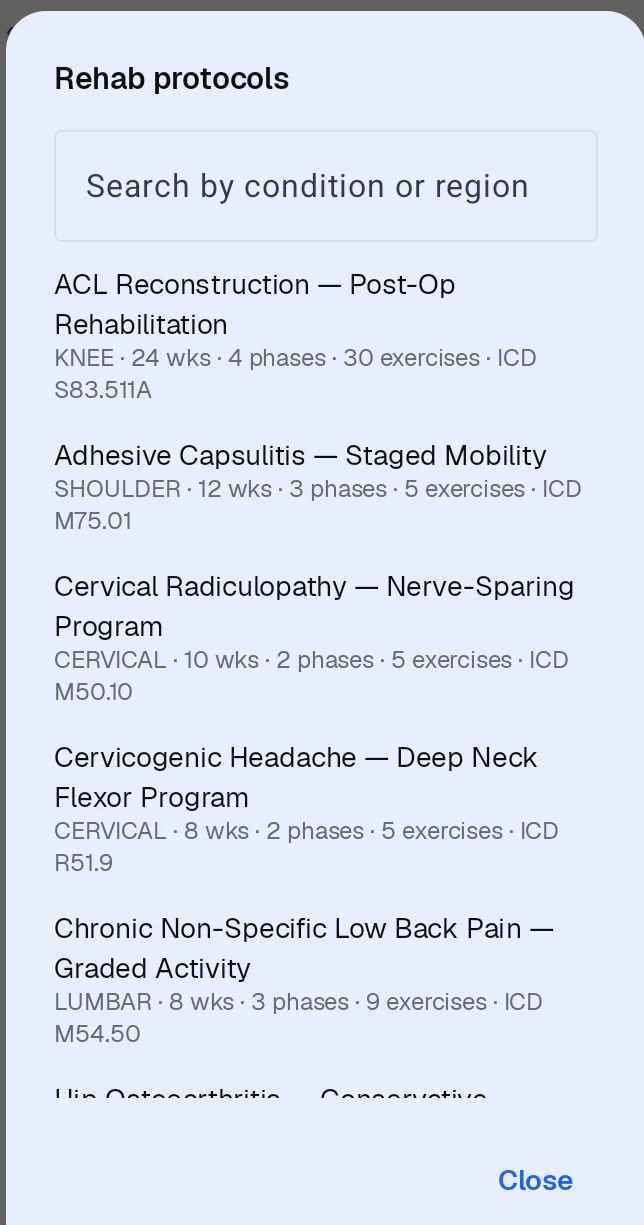
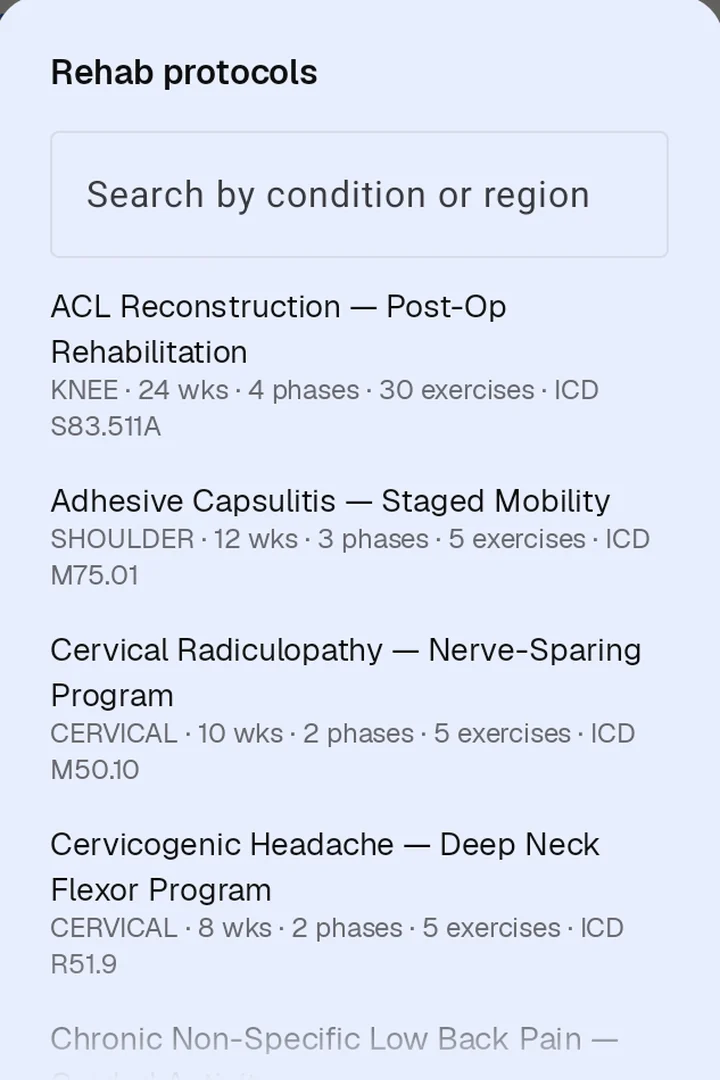
Make app screenshots uniform size and alignment

diff --git a/index.html b/index.html
@@ -504,9 +504,8 @@ tr:last-child th,tr:last-child td{border-bottom:0}
 /* ---------- App screenshots & Sameeksha demo video ---------- */
 .shots{display:grid;grid-template-columns:repeat(4,minmax(0,1fr));gap:clamp(12px,1.6vw,20px)}
 .shot{margin:0}
-.shot-f{aspect-ratio:2/3;overflow:hidden;border:1px solid var(--line);background:var(--card);padding:8px;display:flex;align-items:flex-start}
-.shot-f img{width:100%;height:auto;border-radius:10px}
-.shot-f.short{align-items:center}
+.shot-f{border:1px solid var(--line);background:var(--card);padding:8px}
+.shot-f img{width:100%;height:auto;aspect-ratio:2/3;border-radius:10px}
 .shot figcaption{margin-top:12px;font-size:14px;line-height:1.35;color:var(--text);letter-spacing:-.01em}
 @media (max-width:800px){.shots{grid-template-columns:repeat(2,minmax(0,1fr))}}
 .sam-demo{display:grid;grid-template-columns:minmax(0,340px) minmax(0,1fr);gap:clamp(28px,5vw,80px);align-items:center;margin-bottom:clamp(56px,7vw,100px)}
@@ -711,10 +710,10 @@ tr:last-child th,tr:last-child td{border-bottom:0}
 
     <div class="sub-h"><h3>Pick a workout or build your own plan, then see what your body actually did.</h3></div>
     <div class="shots">
-      <figure class="shot"><div class="shot-f"><img src="assets/img/shot-fitness-workouts.webp" alt="Find your workout screen, browsing yoga workouts by domain" width="720" height="1320" loading="lazy"></div><figcaption>Choose a workout</figcaption></figure>
-      <figure class="shot"><div class="shot-f"><img src="assets/img/shot-fitness-plan.webp" alt="New plan screen with days a week, rounds and reps per exercise" width="720" height="1450" loading="lazy"></div><figcaption>Build your own plan</figcaption></figure>
-      <figure class="shot"><div class="shot-f"><img src="assets/img/shot-fitness-report.webp" alt="Exercise performance report showing reps, range of motion, movement quality and sequencing" width="689" height="1362" loading="lazy"></div><figcaption>See the report</figcaption></figure>
-      <figure class="shot"><div class="shot-f short"><img src="assets/img/shot-fitness-joints.webp" alt="Knee and hip angle charts over time, and which muscles did the work" width="689" height="760" loading="lazy"></div><figcaption>Joints and muscles</figcaption></figure>
+      <figure class="shot"><div class="shot-f"><img src="assets/img/shot-fitness-workouts.webp" alt="Find your workout screen, browsing yoga workouts by domain" width="720" height="1080" loading="lazy"></div><figcaption>Choose a workout</figcaption></figure>
+      <figure class="shot"><div class="shot-f"><img src="assets/img/shot-fitness-plan.webp" alt="New plan screen with days a week, rounds and reps per exercise" width="720" height="1080" loading="lazy"></div><figcaption>Build your own plan</figcaption></figure>
+      <figure class="shot"><div class="shot-f"><img src="assets/img/shot-fitness-report.webp" alt="Exercise performance report showing reps, range of motion, movement quality and sequencing" width="720" height="1080" loading="lazy"></div><figcaption>See the report</figcaption></figure>
+      <figure class="shot"><div class="shot-f"><img src="assets/img/shot-fitness-joints.webp" alt="Knee and hip angle charts over time, and which muscles did the work" width="720" height="1080" loading="lazy"></div><figcaption>Joints and muscles</figcaption></figure>
     </div>
 
     <div class="sub-h"><h3>Set up once, then just move</h3></div>
@@ -769,10 +768,10 @@ tr:last-child th,tr:last-child td{border-bottom:0}
 
     <div class="sub-h"><h3>Start from a clinical protocol and see every home session.</h3></div>
     <div class="shots">
-      <figure class="shot"><div class="shot-f"><img src="assets/img/shot-physio-protocols.webp" alt="Rehab protocols list, searchable by condition or region" width="644" height="1225" loading="lazy"></div><figcaption>23 rehab protocols</figcaption></figure>
-      <figure class="shot"><div class="shot-f short"><img src="assets/img/shot-physio-patient.webp" alt="Patient overview with examine, prescribe and adjust actions and a session timeline" width="720" height="930" loading="lazy"></div><figcaption>Every patient at a glance</figcaption></figure>
-      <figure class="shot"><div class="shot-f"><img src="assets/img/shot-physio-prescription.webp" alt="Prescription screen comparing prescribed exercises with completed sessions" width="720" height="1060" loading="lazy"></div><figcaption>Done vs prescribed</figcaption></figure>
-      <figure class="shot"><div class="shot-f short"><img src="assets/img/shot-physio-create.webp" alt="Create exercise options: pick joints, from a template, from a description or from the camera" width="720" height="760" loading="lazy"></div><figcaption>Your own exercises</figcaption></figure>
+      <figure class="shot"><div class="shot-f"><img src="assets/img/shot-physio-protocols.webp" alt="Rehab protocols list, searchable by condition or region" width="720" height="1080" loading="lazy"></div><figcaption>23 rehab protocols</figcaption></figure>
+      <figure class="shot"><div class="shot-f"><img src="assets/img/shot-physio-patient.webp" alt="Patient overview with examine, prescribe and adjust actions and a session timeline" width="720" height="1080" loading="lazy"></div><figcaption>Every patient at a glance</figcaption></figure>
+      <figure class="shot"><div class="shot-f"><img src="assets/img/shot-physio-prescription.webp" alt="Prescription screen comparing prescribed exercises with completed sessions" width="720" height="1080" loading="lazy"></div><figcaption>Done vs prescribed</figcaption></figure>
+      <figure class="shot"><div class="shot-f"><img src="assets/img/shot-physio-create.webp" alt="Create exercise options: pick joints, from a template, from a description or from the camera" width="720" height="1080" loading="lazy"></div><figcaption>Your own exercises</figcaption></figure>
     </div>
 
     <div class="duo">
